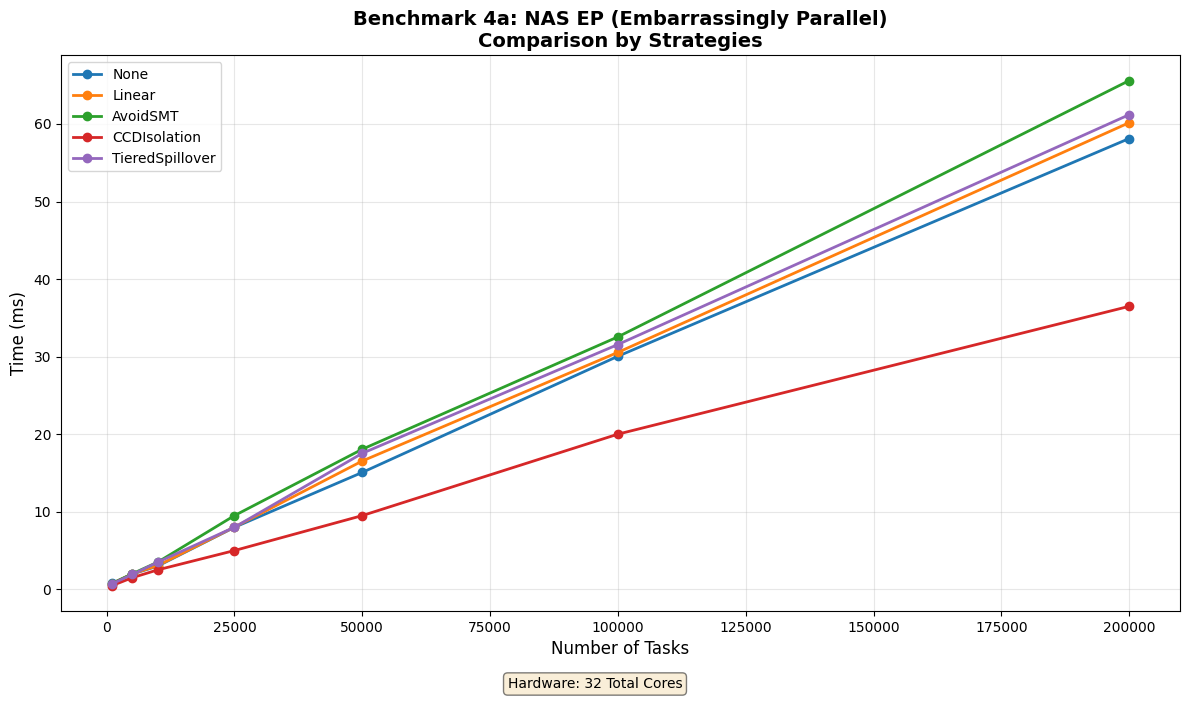
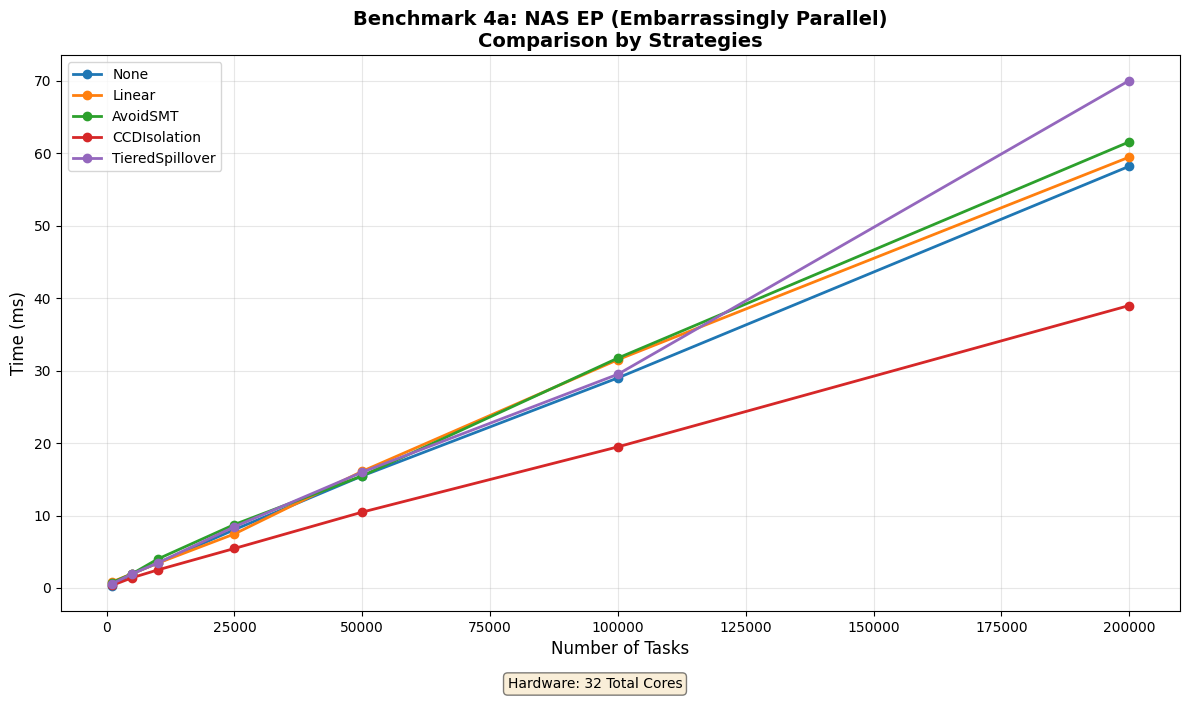
Optimize work stealing (#7)
* Optimize WorkStealing

* implemented the "Deep Idle" (Sleep) fix to mitigate the SMT performance spike.

* update doc , fix clippy

diff --git a/src/worker.rs b/src/worker.rs
@@ -10,6 +10,7 @@ use crate::fiber_pool::FiberPool;
 use crate::job::Job;
 use core_affinity::CoreId;
 use crossbeam::deque::{Injector, Stealer, Worker as Deque};
+use crossbeam::utils::Backoff;
 use std::sync::Arc;
 use std::sync::atomic::{AtomicBool, AtomicUsize, Ordering};
 use std::thread::{self, JoinHandle};
@@ -72,6 +73,9 @@ impl Worker {
             ..
         } = params;
 
+        // Init backoff outside the loop so it persists across iterations
+        let backoff = Backoff::new();
+
         loop {
             // Check for shutdown signal
             if shutdown.load(Ordering::Relaxed) {
@@ -85,27 +89,10 @@ impl Worker {
                 continue;
             }
 
-            // Try to get a job: Local -> Global -> Steal
+            // Try to get a job: Local -> Steal -> Global
+            // We optimize for distributed stealing first to avoid global lock contention
             let job = local_queue.pop().or_else(|| {
-                // If local queue is empty, try to steal from the global injector
-                let mut retry_count = 0;
-                const MAX_RETRIES: usize = 3;
-
-                loop {
-                    match injector.steal_batch_and_pop(&local_queue) {
-                        crossbeam::deque::Steal::Success(job) => return Some(job),
-                        crossbeam::deque::Steal::Empty => break,
-                        crossbeam::deque::Steal::Retry => {
-                            retry_count += 1;
-                            if retry_count >= MAX_RETRIES {
-                                std::thread::yield_now();
-                                break;
-                            }
-                        }
-                    }
-                }
-
-                // Try to steal from other workers
+                // Try to steal from other workers first
                 stealers
                     .iter()
                     .map(|s| s.steal())
@@ -113,12 +100,36 @@ impl Worker {
                         crossbeam::deque::Steal::Success(job) => Some(job),
                         _ => None,
                     })
+                    .or_else(|| {
+                        // If stealing failed, try the global injector
+                        let mut retry_count = 0;
+                        const MAX_RETRIES: usize = 3;
+
+                        loop {
+                            match injector.steal_batch_and_pop(&local_queue) {
+                                crossbeam::deque::Steal::Success(job) => return Some(job),
+                                crossbeam::deque::Steal::Empty => break,
+                                crossbeam::deque::Steal::Retry => {
+                                    retry_count += 1;
+                                    if retry_count >= MAX_RETRIES {
+                                        // For injector contention, we yield immediately
+                                        std::thread::yield_now();
+                                        break;
+                                    }
+                                }
+                            }
+                        }
+                        None
+                    })
             });
 
             match job {
                 Some(job) => {
                     // Mark as active before running
                     active_workers.fetch_add(1, Ordering::Relaxed);
+
+                    // We found work, so reset the backoff strategy
+                    backoff.reset();
 
                     let (mut fiber, input) = match job.work {
                         crate::job::Work::Resume(handle) => {
@@ -193,8 +204,15 @@ impl Worker {
                     active_workers.fetch_sub(1, Ordering::Relaxed);
                 }
                 None => {
-                    // No work available, brief spin then yield
-                    std::thread::yield_now();
+                    // No work available
+                    if backoff.is_completed() {
+                        // Deep Idle: Release SMT resources completely for a short while
+                        thread::sleep(std::time::Duration::from_micros(100));
+                        backoff.reset();
+                    } else {
+                        // Brief Idle: Spin or yield
+                        backoff.snooze();
+                    }
                 }
             }
         }
@@ -255,7 +273,7 @@ impl WorkerPool {
 
         // Create local queues and stealers for each worker
         for _ in 0..num_threads {
-            let deque = Deque::new_fifo();
+            let deque = Deque::new_lifo();
             stealers.push(deque.stealer());
             local_queues.push(deque);
         }

diff --git a/tests/work_stealing_test.rs b/tests/work_stealing_test.rs
@@ -1,0 +1,35 @@
+use crossbeam::deque::Worker;
+
+#[test]
+fn test_deque_ordering_lifo_local() {
+    // Verify that Worker::new_lifo() provides LIFO behavior for local pop
+    // (push to bottom, pop from bottom)
+    let w = Worker::<i32>::new_lifo();
+    w.push(1);
+    w.push(2);
+    w.push(3);
+
+    // Expect LIFO order: 3, 2, 1
+    assert_eq!(w.pop(), Some(3));
+    assert_eq!(w.pop(), Some(2));
+    assert_eq!(w.pop(), Some(1));
+    assert_eq!(w.pop(), None);
+}
+
+#[test]
+fn test_deque_ordering_fifo_steal() {
+    // Verify that Worker::new_lifo() provides FIFO behavior for thieves
+    // (push to bottom, steal from top)
+    let w = Worker::<i32>::new_lifo();
+    w.push(1);
+    w.push(2);
+    w.push(3);
+
+    let s = w.stealer();
+
+    // Expect FIFO order: 1, 2, 3
+    assert_eq!(s.steal(), crossbeam::deque::Steal::Success(1));
+    assert_eq!(s.steal(), crossbeam::deque::Steal::Success(2));
+    assert_eq!(s.steal(), crossbeam::deque::Steal::Success(3));
+    assert_eq!(s.steal(), crossbeam::deque::Steal::Empty);
+}

diff --git a/src/job_system.rs b/src/job_system.rs
@@ -290,7 +290,7 @@ impl JobSystem {
     /// If running in a fiber, this yields execution to other jobs.
     /// If running on a thread (outside fiber), this blocks with a sleep loop.
     pub fn wait_for_counter(&self, counter: &Counter) {
-        use crate::fiber::{Fiber, NODE_STATE_RUNNING, NODE_STATE_WAITING};
+        use crate::fiber::{Fiber};
         use std::sync::atomic::Ordering;
 
         if counter.is_complete() {

diff --git a/ARCHITECTURE.md b/ARCHITECTURE.md
@@ -44,9 +44,9 @@ The system spawns `N` worker threads (where `N` = logical cores).
 
 ### 3.2 Scheduling: Work Stealing
 We use a **Chase-Lev Work-Stealing Deque** (via `crossbeam-deque`).
-- **Local Queue**: Workers push/pop to their own LIFO queue (Hot cache optimization).
-- **Stealing**: If a worker runs out of work, it attempts to steal from the *top* (FIFO) of other workers' queues.
-- **Global Injector**: Handles entry-point jobs from external threads.
+- **Local Queue (LIFO)**: Workers push/pop to their own deque. LIFO order ensures hot cache locality (most recently added job is executed first).
+- **Stealing (FIFO)**: If a worker runs out of work, it steals from the *top* (FIFO) of other workers' queues. This minimizes conflict with the owner (who operates on the bottom).
+- **Global Injector**: Handles entry-point jobs from external threads. Accessed only after local work and stealing attempts fail.
 
 ---
 
@@ -58,11 +58,14 @@ Allocating new stacks for every fiber is prohibitive (`mmap` syscalls).
 - **Mechanism**: When a fiber completes, its stack is reset (rewind stack pointer) rather than deallocated. This reduced fiber allocation cost to near-zero.
 - **Impact**: Removing allocation overhead was critical to achieving >6M jobs/sec.
 
-### 4.2 Adaptive Spinning
-Context switching, even in user space, has overhead (~50ns + cache pollution).
-- **Problem**: Yielding immediately for a very short dependency (nanoseconds) is inefficient.
-- **Solution**: `wait_for_counter` implements **Adaptive Spinning**. It spins for a calibrated number of cycles (`SPIN_LIMIT = 2000`) before yielding.
-- **Result**: Drastically reduced latency for fine-grained dependency chains.
+### 4.2 Intelligent Backoff & SMT Mitigation
+Efficiently handling idle states is crucial for both power and performance (especially on SMT/Hyperthreading).
+- **Tiered Backoff**: Workers use a 3-stage backoff strategy when no work is found:
+    1.  **Spinning**: Brief tight loop to catch immediately arriving work (lowest latency).
+    2.  **Yielding**: Calls `std::thread::yield_now()` to play nice with OS scheduler.
+    3.  **Deep Idle (Sleep)**: If still idle, the worker sleeps (`100µs`).
+- **SMT Contention Fix**: The "Deep Idle" sleep is critical for SMT processors. By forcing idle threads to sleep, we release execution resources (ALUs, L1 cache) to the sibling thread running on the same physical core, preventing "lazy" threads from slowing down "busy" ones.
+- **Result**: Eliminates performance spikes at high core counts and improving scaling stability.
 
 ### 4.3 Strategy-Aware Scheduling (Hybrid Wakeup)
 Different pinning strategies require different scheduling logic.
